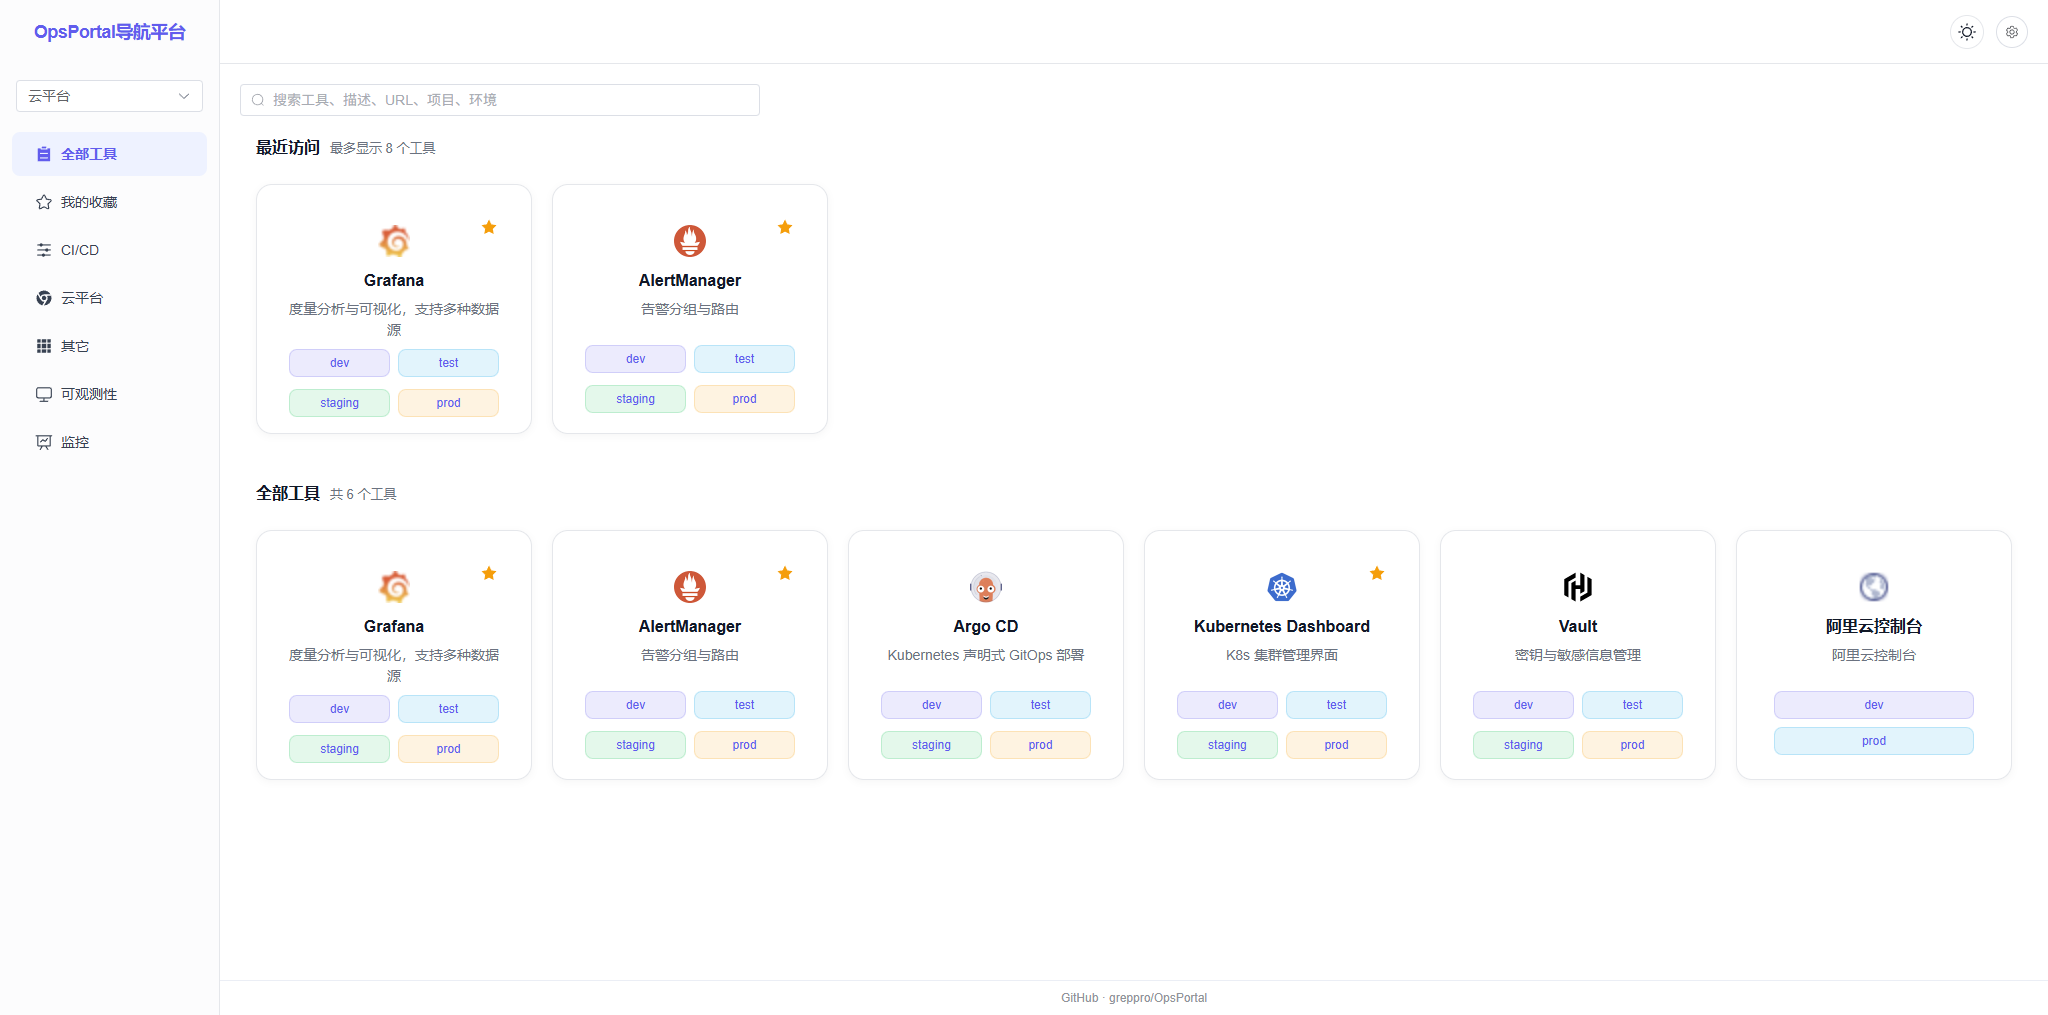
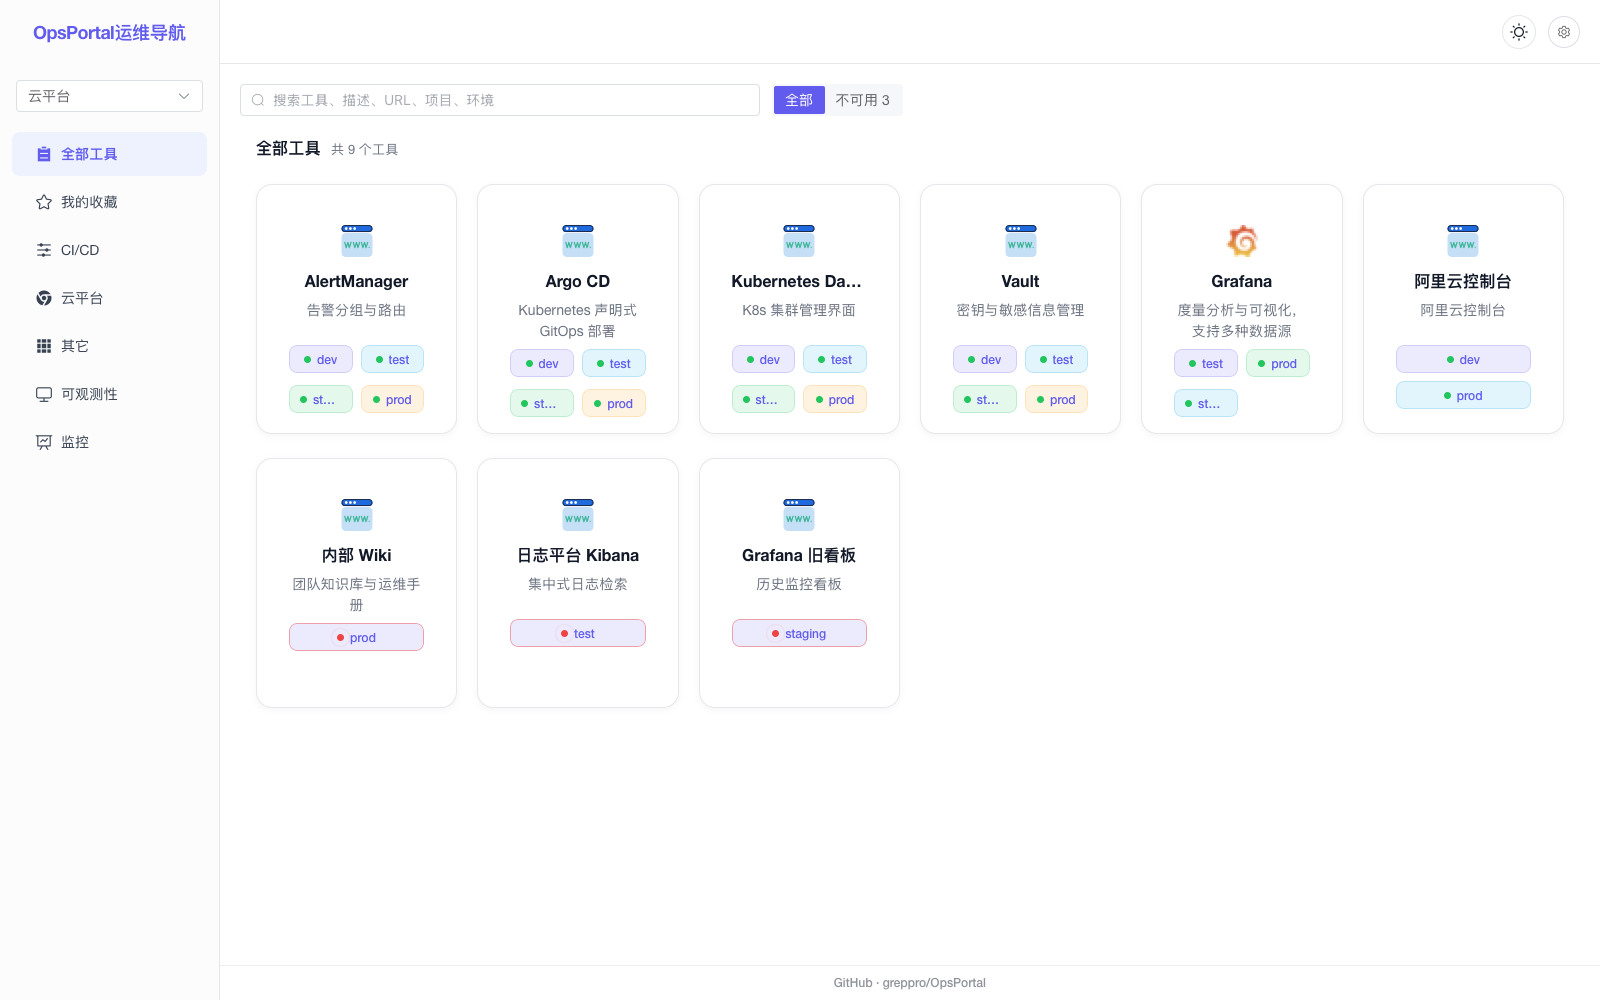
docs: 更新 README 界面截图为新版 (#2)
- 登录页/导航首页/后台截图替换为当前新版界面
- 导航首页展示环境按钮状态点与"全部/不可用"筛选
- 新增后台网址管理截图，展示可用性列、失败原因与检测按钮
- 第三张由"项目管理"改为"后台·网址可用性检测"，更贴合本次新增特性

diff --git a/README.md b/README.md
@@ -10,11 +10,15 @@ OpsPortal 是一个面向运维、DevOps 和平台团队的内部工具导航平
 
 ### 导航首页
 
+环境按钮上的小圆点显示可用性（绿色可用、红色不可用），工具栏可按「全部 / 不可用」筛选。
+
 ![导航首页](docs/screenshot-home-light.png)
 
-### 项目管理
+### 后台 · 网址可用性检测
 
-![项目管理](docs/screenshot-project-manage.png)
+展开网址可查看每个环境的检测状态、失败原因和检测时间，并可单条「检测」或关闭检测。
+
+![后台网址管理](docs/screenshot-admin-probe.png)
 
 ## 主要功能
 
